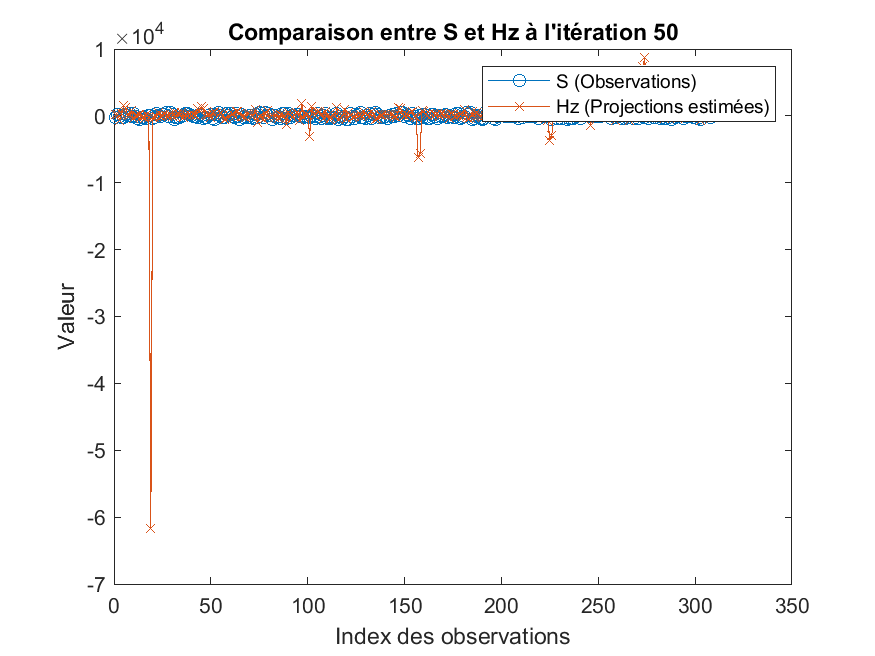
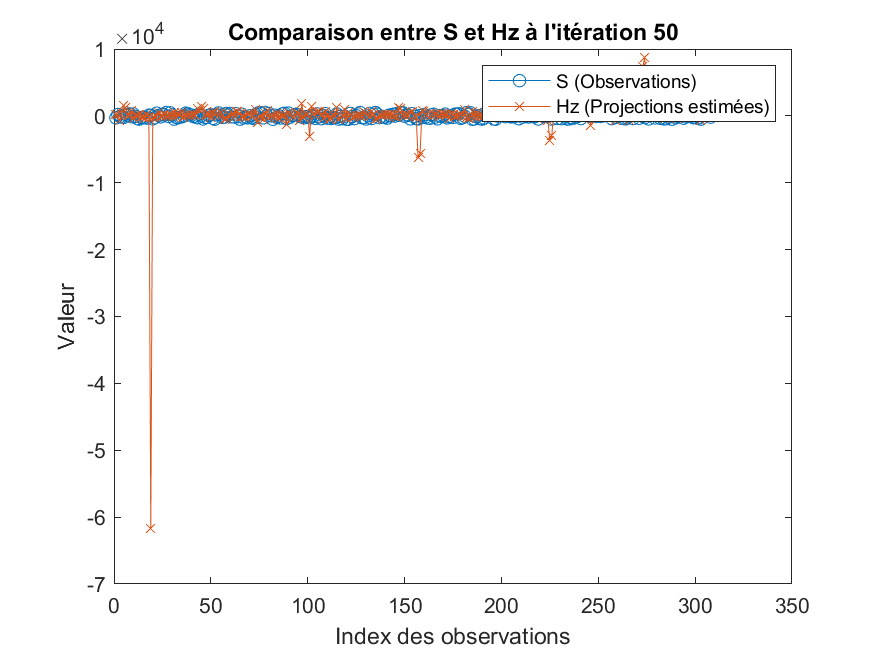
main: Added new lines

diff --git a/script.m b/script.m
@@ -5,7 +5,7 @@ close all
 load carte.dat
 load mesure_accelero
 
-%LEGENDES
+%LÉGENDES
 % Pour carte.dat : numéro d'amer = numéro de colonne et X = carte(1,:), Y = carte(2,:) Z = carte(3,:)
 % Pour mesure_accelero : temps = mesure_accelero(:,1), aX = mesure_accelero(:,2), aY = mesure_accelero(:,3), aZ = mesure_accelero(:,4)
 % Pour image : image(1,:) = numéro d'amer, U = image(2,:), V = image(3,:)
@@ -24,6 +24,7 @@ figure
 plot(mesure_accelero(:, 1), mesure_accelero(:, 2), 'r', mesure_accelero(:, 1), mesure_accelero(:, 3), 'b', mesure_accelero(:, 1), mesure_accelero(:, 4), 'g')
 xlabel('temps (s)');
 ylabel('acceleration (m/s²)');
+title('Mesures d''accélération');
 legend('axe X', 'axe Y', 'axe Z');
 
 %Choix d'une image spécifique pour le plot
@@ -48,7 +49,7 @@ for k = 0:5
 
     % initialisez la moyenne et la covariance de l'état en utilisant
     % des couples d'amers et une idée sur la vitesse initiale et les
-    % biais des accéleromètres
+    % biais des accéléromètres
     if (k == 0)
         Xpos = [];
         Ypos = [];
@@ -125,8 +126,6 @@ for k = 0:5
 
     Y = X; % SUR ?
 
-    %COVU = [covMatrix zeros(3) zeros(3); zeros(3) covV zeros(3); zeros(3) zeros(3) covbiais];
-
     if (k ~= 100)
 
         for l = 1:1:99
@@ -144,8 +143,6 @@ for k = 0:5
                  zeros(3), zeros(3), eye(3)];
             B = [zeros(3); eye(3) * pas; zeros(3)];
             COVU = blkdiag(covMatrix, covV, covbiais);
-
-            % Prediction %
 
             %Construction de l'estimation à priori
             Z = A * Y + B * [mesure_accelero(100 * k + l, 2);
@@ -192,7 +189,7 @@ for k = 0:5
             Y = Z + K * (S - Hz);
             Pk_1 = (eye(9) - K * dHz) * COVY;
 
-            if mod(l, 50) == 0 % Enregistrer toutes les 50 itérations
+            if mod(l, 20) == 0 % Enregistrer toutes les 50 itérations
                 figure(1);
                 plot(S, 'o-', 'DisplayName', 'S (Observations)');
                 hold on;
